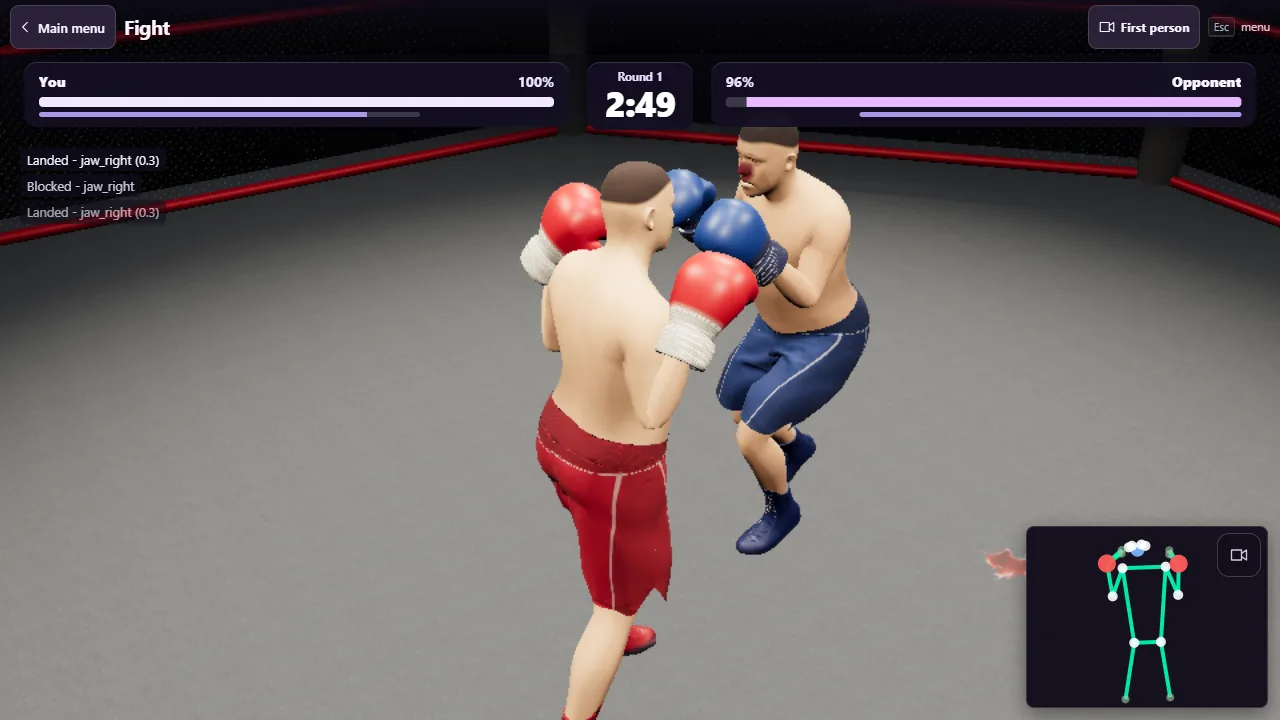
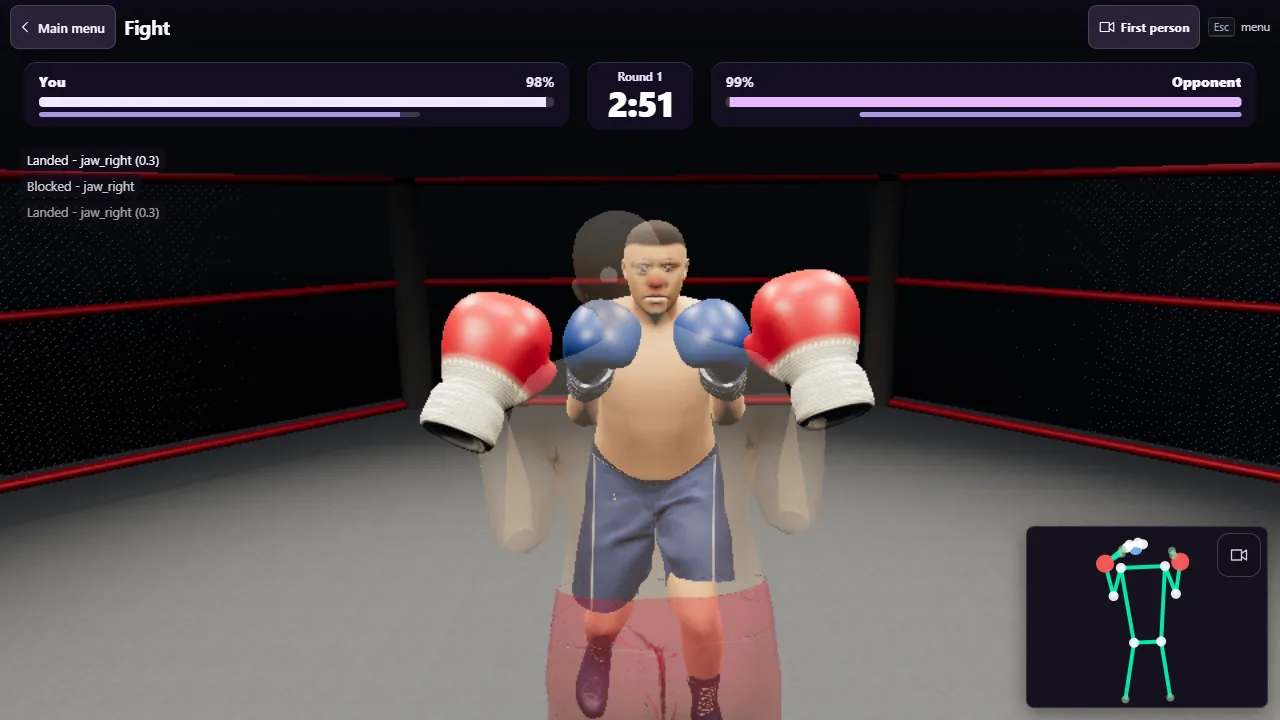
Third person is the see-through over-the-shoulder view again
Third person rides 1.35 m behind and 0.2 m above the head, as FPS Mode did,
with the player's fighter at 28% opacity in cloned materials and the gloves
solid, so the opponent always shows through. It turns solid when the
knockdown camera shows the player from outside, and a view switch starts the
camera fresh instead of sweeping through the head. Both views now fight on
the same line with the same CPU and the gloves-up get-up.

The browser smoke test checks that V switches views and back, and checks the
mouse orbit on the venue screen, the one camera that still orbits.

Claude-Session: https://claude.ai/code/session_0163PQUhvCtnBkK78La7MR7A

diff --git a/src/render/BoxerModel.tsx b/src/render/BoxerModel.tsx
@@ -1,6 +1,6 @@
 import { ResolutionGovernor } from "./resolutionGovernor";
 import { SlowDetector } from "./slowDetector";
-import { FPS_CAMERA, approach, fpsCameraPose, fpsFov, fpsLean, isGlove, type CameraPose as FpsPose } from "./fpsCamera";
+import { FPS_CAMERA, SHOULDER_CAMERA, approach, fpsCameraPose, fpsFov, fpsLean, isGlove, type CameraPose as FpsPose } from "./fpsCamera";
 import { DEMO_PRESET, isDemoMode } from "../config/demoMode";
 import type { RollingStats } from "../debug/perfStats";
 import { ImpactLog, TimeWarp, hitStopFor, shakeFor, shakeOffset } from "../sim/impactFeedback";
@@ -1117,15 +1117,17 @@ export function BoxerModel({
       }
     };
 
-    // --- First person ------------------------------------------------------
+    // --- Fight cameras -----------------------------------------------------
     //
-    // The camera rides at the player's eyes. The head bone is collapsed while
+    // First person rides at the player's eyes. The head bone is collapsed while
     // it does, because from inside the head the mouth and eye sockets face the
-    // camera. It is restored whenever anything else holds the camera.
+    // camera. It is restored whenever anything else holds the camera. Third
+    // person rides just behind the head with the player's fighter see-through.
     const BASE_FOV = camera.fov;
     let fpsActive = false;
     let fpsScanAt = -Infinity;
     let fpsCam: FpsPose | null = null;
+    let fpsFirst: boolean | null = null;
     let playerEyes: [THREE.Object3D, THREE.Object3D] | null = null;
     let playerHead: THREE.Object3D | null = null;
     let opponentHead: THREE.Object3D | null = null;
@@ -1176,12 +1178,60 @@ export function BoxerModel({
       for (const m of glowMats) m.emissive.copy(glowColor).multiplyScalar(k);
     };
 
+    // The player's materials are cloned before fading: the opponent is a clone
+    // of the same asset and shares material objects with it.
+    const ghostOriginals = new Map<THREE.Mesh, THREE.Material | THREE.Material[]>();
+    const ghosted = new WeakSet<THREE.Material>();
+    const ghostMaterial = (m: THREE.Material): THREE.Material => {
+      if (ghosted.has(m)) return m;
+      // Lambert: the faded body covers much of the screen over the opponent,
+      // and at this opacity a standard material's specular detail is invisible.
+      // Same texture and colour, so bruises still show.
+      const src = m as THREE.MeshStandardMaterial;
+      const g = new THREE.MeshLambertMaterial({
+        map: src.map ?? null,
+        color: src.color ? src.color.clone() : new THREE.Color(0xffffff),
+        side: m.side,
+        transparent: true,
+        opacity: SHOULDER_CAMERA.playerOpacity,
+        // Otherwise the body hides its own far half in patches.
+        depthWrite: false,
+      });
+      ghosted.add(g);
+      return g;
+    };
+
+    /** Fades the player's fighter, gloves excepted, or restores it. Rescanned
+     *  because skins and appearance changes swap materials after load. */
+    const syncGhost = (on: boolean, rescan = true) => {
+      if (!playerRoot) return;
+      if (!on) {
+        for (const [mesh, orig] of ghostOriginals) {
+          const now = mesh.material;
+          (Array.isArray(now) ? now : [now]).forEach((x) => ghosted.has(x) && x.dispose());
+          mesh.material = orig;
+        }
+        ghostOriginals.clear();
+        return;
+      }
+      if (!rescan) return;
+      playerRoot.traverse((o) => {
+        const mesh = o as THREE.Mesh;
+        // Where your fists are is the one thing you must always see.
+        if (!mesh.isMesh || isGlove([mesh.name, mesh.parent?.name ?? ""])) return;
+        const mat = mesh.material;
+        if (Array.isArray(mat) ? mat.every((x) => ghosted.has(x)) : ghosted.has(mat)) return;
+        ghostOriginals.set(mesh, mat);
+        mesh.material = Array.isArray(mat) ? mat.map(ghostMaterial) : ghostMaterial(mat);
+      });
+    };
+
     // The next getWorldPosition or render picks the new scale up.
     const setOwnHead = (shown: boolean) => playerHead?.scale.setScalar(shown ? 1 : 1e-4);
 
-    /** Places the first-person camera. False when it can't (no opponent yet,
-     *  the director holds the camera, the model isn't loaded). */
-    const placeFpsCamera = (dt: number): boolean => {
+    /** Places the fight camera, at the eyes or behind the head. False when it
+     *  can't (no opponent yet, the director holds the camera, no model). */
+    const placeFpsCamera = (dt: number, first: boolean): boolean => {
       const duel = showTargetRef.current || dummyRef.current;
       if (!duel || directorOwns || !playerRoot || !opponentRoot?.visible) {
         setOwnHead(true);
@@ -1194,33 +1244,41 @@ export function BoxerModel({
       }
       playerHead ??= playerRoot.getObjectByName("c_head") ?? null;
       opponentHead ??= opponentRoot.getObjectByName("c_head") ?? null;
-      if (!playerEyes || !opponentHead) return false;
-      // Eyes read with the head at full size, then the head collapses for the render.
+      if (!playerEyes || !playerHead || !opponentHead) return false;
+      // A view switch starts fresh rather than sweeping through the head.
+      if (fpsFirst !== first) fpsCam = null;
+      fpsFirst = first;
+      const cfg = first ? FPS_CAMERA : SHOULDER_CAMERA;
+      // Read with the head at full size; first person then collapses it for the render.
       setOwnHead(true);
-      playerEyes[0].getWorldPosition(_head);
-      playerEyes[1].getWorldPosition(_eyeR);
-      _head.add(_eyeR).multiplyScalar(0.5);
-      setOwnHead(false);
+      if (first) {
+        playerEyes[0].getWorldPosition(_head);
+        playerEyes[1].getWorldPosition(_eyeR);
+        _head.add(_eyeR).multiplyScalar(0.5);
+        setOwnHead(false);
+      } else {
+        playerHead.getWorldPosition(_head);
+      }
       opponentHead.getWorldPosition(_oppHead);
       const motion = driverRef.current?.bodyMotion;
-      const lean = fpsLean(motion?.tracked ? motion.lateral : 0);
+      const lean = fpsLean(motion?.tracked ? motion.lateral : 0, cfg);
       // The fighters face each other down one fixed line, so the camera looks
       // straight down it: their slips move them across the frame, the
       // player's own slips move the camera.
       if (lineLockedHolder.current?.current ?? true) _oppHead.x = _head.x;
-      const goal = fpsCameraPose(_head, _oppHead, FPS_CAMERA, lean.side);
+      const goal = fpsCameraPose(_head, _oppHead, cfg, lean.side);
       fpsCam = fpsCam
         ? {
-            position: approach(fpsCam.position, goal.position, dt, FPS_CAMERA.tau),
-            target: approach(fpsCam.target, goal.target, dt, FPS_CAMERA.tau),
+            position: approach(fpsCam.position, goal.position, dt, cfg.tau),
+            target: approach(fpsCam.target, goal.target, dt, cfg.tau),
           }
         : goal;
       camera.position.set(fpsCam.position.x, fpsCam.position.y, fpsCam.position.z);
       controls.target.set(fpsCam.target.x, fpsCam.target.y, fpsCam.target.z);
       camera.lookAt(controls.target);
-      fpsRoll += (lean.roll - fpsRoll) * (1 - Math.exp(-dt / FPS_CAMERA.tau));
+      fpsRoll += (lean.roll - fpsRoll) * (1 - Math.exp(-dt / cfg.tau));
       camera.rotateZ(-fpsRoll);
-      const fov = fpsFov(camera.aspect);
+      const fov = fpsFov(camera.aspect, cfg);
       if (Math.abs(camera.fov - fov) > 1e-3) {
         camera.fov = fov;
         camera.updateProjectionMatrix();
@@ -1233,8 +1291,10 @@ export function BoxerModel({
       fpsCam = null;
       fpsRoll = 0;
       fpsScanAt = -Infinity;
+      fpsFirst = null;
       setOwnHead(true);
       syncGlow(null);
+      syncGhost(false);
       controls.enabled = true;
       if (camera.fov !== BASE_FOV) {
         camera.fov = BASE_FOV;
@@ -1251,13 +1311,8 @@ export function BoxerModel({
     let lastTargetShown = showTargetRef.current;
     const governor = new ResolutionGovernor(MIN_PIXEL_RATIO, pixelRatio);
 
-    // FPS Mode on a phone: the ?demo speed settings that can change while
-    // running - resolution capped at 1x, no shadow pass, no crowd. A phone
-    // draws the scene and runs pose tracking on one GPU, and in FPS Mode any
-    // lag is right in front of you as your own gloves trailing your punches.
-    // Laptops keep the full picture.
-    const onPhone =
-      typeof window.matchMedia === "function" && window.matchMedia("(pointer: coarse)").matches;
+    // Lite: the ?demo speed settings that can change while running -
+    // resolution capped at 1x, no shadow pass, no crowd.
     let liteOn = false;
     // Any machine, any fight mode: if the scene is visibly starving pose
     // tracking, the same extras come off for the rest of the session. See
@@ -1576,21 +1631,21 @@ export function BoxerModel({
 
       stepDirector(dt);
       if (driver) {
-        driver.lockDepth = fpsRef.current;
+        // A line-locked fight ignores the player's steps, so the figure does too.
+        driver.lockDepth = fpsRef.current || (lineLockedHolder.current?.current ?? false);
         // In a fight (or on the punching dummy) the legs stand planted rather
         // than copying the camera's guesses at the player's legs.
         driver.plantLegs = !!(showTargetRef.current || dummyRef.current);
         driver.steadyBody = driver.plantLegs;
       }
-      const wantFps = fpsRef.current && (showTargetRef.current || dummyRef.current);
       const inBout = !!(showTargetRef.current || dummyRef.current);
-      // Every fight - FPS Mode included - runs light: no shadow pass, no crowd,
-      // resolution capped at 1x, so the GPU goes to pose tracking and your
-      // fighter keeps up with you. The slowness detector still covers any
-      // other view.
-      const wantLite = inBout || (wantFps && onPhone) || slowness.slow;
+      const first = fpsRef.current;
+      // Every fight runs light: no shadow pass, no crowd, resolution capped at
+      // 1x, so the GPU goes to pose tracking and your fighter keeps up with
+      // you. The slowness detector still covers any other view.
+      const wantLite = inBout || slowness.slow;
       if (wantLite !== liteOn) setLite(wantLite);
-      if (wantFps) {
+      if (inBout) {
         fpsActive = true;
         // The camera is driven every frame; dragging it would fight that.
         // Re-asserted each frame because the knockdown director re-enables
@@ -1602,7 +1657,9 @@ export function BoxerModel({
         const rescan = nowMs - fpsScanAt >= 250;
         if (rescan) fpsScanAt = nowMs;
         syncGlow(opponentHolder.current?.current?.windup ?? 0, rescan);
-        if (!placeFpsCamera(dt) && !directorOwns) {
+        // Solid again while the director shows the player from outside.
+        syncGhost(!first && !directorOwns, rescan);
+        if (!placeFpsCamera(dt, first) && !directorOwns) {
           followOpponent(dt);
           controls.update();
         }

diff --git a/src/render/fpsCamera.ts b/src/render/fpsCamera.ts
@@ -1,5 +1,22 @@
-// First-person camera: seated at the player's eyes, looking at the opponent.
-// Plain vectors in and out so it can be tested without WebGL.
+// The two fight cameras. First person sits at the player's eyes; third person
+// sits just behind and above their head with their fighter drawn see-through.
+// Both look at the opponent. Plain vectors in and out, testable without WebGL.
+
+/** Placement, field of view and dodge lean of a fight camera. */
+export interface ViewCamera {
+  forward: number;
+  up: number;
+  lookDown: number;
+  fov: number;
+  minHFov: number;
+  maxFov: number;
+  tau: number;
+  leanSide: number;
+  leanSideMax: number;
+  leanRoll: number;
+  leanRollMax: number;
+  leanTargetShare: number;
+}
 
 export const FPS_CAMERA = {
   /** Offset from the midpoint of the eye bones toward the opponent, metres. */
@@ -32,6 +49,28 @@ export const FPS_CAMERA = {
   windupGlow: 0xff7a1a,
 } as const;
 
+/** Third person: behind the player's head (the head bone, not the eyes). */
+export const SHOULDER_CAMERA = {
+  /** Far enough back that the see-through fighter shows from about the hips
+   *  up at the bottom of the frame, with the opponent beyond. */
+  forward: -1.35,
+  /** A touch above eye line, so the gloves read in front of the face. */
+  up: 0.2,
+  /** Aim just below the opponent's chin: head and gloves in the upper half. */
+  lookDown: 0.18,
+  fov: 50,
+  minHFov: 62,
+  maxFov: 90,
+  tau: 0.06,
+  leanSide: 0.45,
+  leanSideMax: 0.32,
+  leanRoll: 0.16,
+  leanRollMax: 0.12,
+  leanTargetShare: 0.5,
+  /** The player's body, so the opponent shows through it. Gloves stay solid. */
+  playerOpacity: 0.28,
+} as const;
+
 export interface Vec3 {
   x: number;
   y: number;
@@ -48,7 +87,7 @@ export interface CameraPose {
  * horizontal, so a duck lowers the view instead of tilting it. `side` slides
  * the camera to screen right (positive) for the dodge lean.
  */
-export function fpsCameraPose(eye: Vec3, opponentHead: Vec3, cfg = FPS_CAMERA, side = 0): CameraPose {
+export function fpsCameraPose(eye: Vec3, opponentHead: Vec3, cfg: ViewCamera = FPS_CAMERA, side = 0): CameraPose {
   let dx = opponentHead.x - eye.x;
   let dz = opponentHead.z - eye.z;
   const len = Math.hypot(dx, dz);
@@ -77,7 +116,7 @@ export function fpsCameraPose(eye: Vec3, opponentHead: Vec3, cfg = FPS_CAMERA, s
 }
 
 /** Vertical field of view for `aspect` (width / height), degrees. */
-export function fpsFov(aspect: number, cfg = FPS_CAMERA): number {
+export function fpsFov(aspect: number, cfg: ViewCamera = FPS_CAMERA): number {
   const a = Number.isFinite(aspect) && aspect > 0 ? aspect : 1;
   const fromH = (2 * Math.atan(Math.tan((cfg.minHFov * Math.PI) / 360) / a) * 180) / Math.PI;
   return Math.min(cfg.maxFov, Math.max(cfg.fov, fromH));
@@ -87,7 +126,7 @@ export function fpsFov(aspect: number, cfg = FPS_CAMERA): number {
  * Dodge lean for a slip of `lateral` torso units (positive toward the
  * player's right): sideways slide in world units and roll in radians.
  */
-export function fpsLean(lateral: number, cfg = FPS_CAMERA): { side: number; roll: number } {
+export function fpsLean(lateral: number, cfg: ViewCamera = FPS_CAMERA): { side: number; roll: number } {
   const clamp = (v: number, m: number) => Math.max(-m, Math.min(m, v));
   const l = Number.isFinite(lateral) ? lateral : 0;
   return {

diff --git a/src/render/fpsCamera.test.ts b/src/render/fpsCamera.test.ts
@@ -1,5 +1,5 @@
 import { describe, expect, it } from "vitest";
-import { FPS_CAMERA, approach, fpsCameraPose, fpsFov, fpsLean, isGlove } from "./fpsCamera";
+import { FPS_CAMERA, SHOULDER_CAMERA, approach, fpsCameraPose, fpsFov, fpsLean, isGlove } from "./fpsCamera";
 
 const hFov = (v: number, aspect: number) => (2 * Math.atan(Math.tan((v * Math.PI) / 360) * aspect) * 180) / Math.PI;
 
@@ -33,6 +33,30 @@ describe("fpsCameraPose", () => {
     const p = fpsCameraPose(eye, opp, FPS_CAMERA, 0.1);
     expect(p.position.x).toBeCloseTo(-0.1, 5);
     expect(p.target.x).toBeCloseTo(-0.1 * FPS_CAMERA.leanTargetShare, 5);
+  });
+});
+
+describe("third person", () => {
+  const head = { x: 0, y: 1.6, z: 0 };
+  const opp = { x: 0, y: 1.6, z: 0.96 };
+
+  it("sits behind and above the head, looking past it at the opponent", () => {
+    const p = fpsCameraPose(head, opp, SHOULDER_CAMERA);
+    expect(p.position.z).toBeCloseTo(SHOULDER_CAMERA.forward, 5);
+    expect(p.position.y).toBeCloseTo(1.6 + SHOULDER_CAMERA.up, 5);
+    expect(p.target).toEqual({ x: 0, y: 1.6 - SHOULDER_CAMERA.lookDown, z: 0.96 });
+  });
+
+  it("keeps the player see-through enough to see the opponent", () => {
+    expect(SHOULDER_CAMERA.playerOpacity).toBeGreaterThan(0.1);
+    expect(SHOULDER_CAMERA.playerOpacity).toBeLessThan(0.5);
+  });
+
+  it("widens on a portrait phone so the shoulders fit", () => {
+    expect(fpsFov(16 / 9, SHOULDER_CAMERA)).toBe(SHOULDER_CAMERA.fov);
+    const v = fpsFov(9 / 19.5, SHOULDER_CAMERA);
+    expect(v).toBeLessThanOrEqual(SHOULDER_CAMERA.maxFov);
+    expect(v).toBeGreaterThan(SHOULDER_CAMERA.fov);
   });
 });
 

diff --git a/src/App.tsx b/src/App.tsx
@@ -220,10 +220,10 @@ export default function App() {
     send: net.send,
     rttMs: netStatus.latency,
     restartKey: netOpen ? net.rematchKey : cpuRematchKey,
-    // First person holds both fighters on one line and lets a downed player
-    // get up by raising their gloves. CPU fights only.
-    getUp: firstPerson,
-    locked: firstPerson,
+    // Both views hold the fighters on one line and let a downed player get up
+    // by raising their gloves. CPU fights only.
+    getUp: true,
+    locked: true,
   });
 
   const fightOver = inFight && !!fight.hud?.result;

diff --git a/docs/GAMEPLAY.md b/docs/GAMEPLAY.md
@@ -38,7 +38,7 @@ slips, ducks, your guard and your footwork.
 | Guard | Hands up at the chin covers the head; hands at the ribs covers the body. A blocked punch does a fraction of the damage and costs the blocker stamina. |
 | Slip | Move your head and shoulders sideways. A slip beats a straight or rising punch, but not a hook, which curves around to where your head went. |
 | Duck | Drop your head. A duck gets under any head punch and does nothing about a body shot. |
-| Step | Step towards or away from the camera (third-person fights only; in first person the CPU sets the distance). |
+| Step | Step towards or away from the camera (Play a Friend and Online; against the CPU it sets the distance). |
 | Get up | When knocked down in a CPU fight, hold both gloves up at your face to rise early. |
 | Rematch | When a fight ends, raise both hands over your head and hold them there. |
 | Menu | Point your hand at a card and hold it still until the ring fills. |
@@ -69,9 +69,10 @@ Every on-screen control also works with a tap or a click.
   your gloves are at the bottom of the screen. The fighters stay on one line:
   the CPU stands off at its preferred distance between exchanges and steps in
   to throw, then back out, so the fight is about timing, defence and the guard.
-- **Third person.** Choose it before the match, press `V`, or turn it on in Settings. The camera sits behind
-  your fighter and both fighters move: the CPU circles, steps in to throw and
-  backs out again, and your real steps change the range.
+- **Third person.** Choose it before the match, press `V`, or turn it on in
+  Settings. The camera sits just behind your head and your fighter is drawn
+  see-through, gloves solid, so the opponent is always visible. The fight is
+  the same one as in first person: same line, same CPU.
 - **The CPU telegraphs.** Every CPU punch has a visible wind-up: 0.55 s at
   Rookie, 0.38 s at Contender, 0.26 s at Champion. In first person its gloves
   glow orange through the wind-up. The punch lands when the glove arrives, about

diff --git a/docs/TECHNOLOGY.md b/docs/TECHNOLOGY.md
@@ -145,7 +145,13 @@ the measurements behind each decision.
   screens so the horizontal view never drops below 70° (capped at 100°). A slip
   slides and rolls the camera slightly on top of the head's own movement.
   Smoothing is 35 ms: in first person, lag reads as motion sickness.
-- **Third person.** Over the shoulder, turning with the fight as the CPU circles.
+- **Third person** (`SHOULDER_CAMERA`). 1.35 m behind and 0.2 m above the
+  head bone, looking down the same fight line with a 50° view (widened on
+  portrait screens so the horizontal view stays at 62° or more). The player's
+  fighter is drawn at 28% opacity in cloned Lambert materials with depth
+  writes off, so the opponent always shows through; the gloves stay solid. It
+  turns solid again whenever the knockdown camera shows the player from
+  outside.
 - **Director.** Takes the camera for knockdowns, the bell and the decision, never
   during a live exchange, and eases back to exactly where it found it.
 
